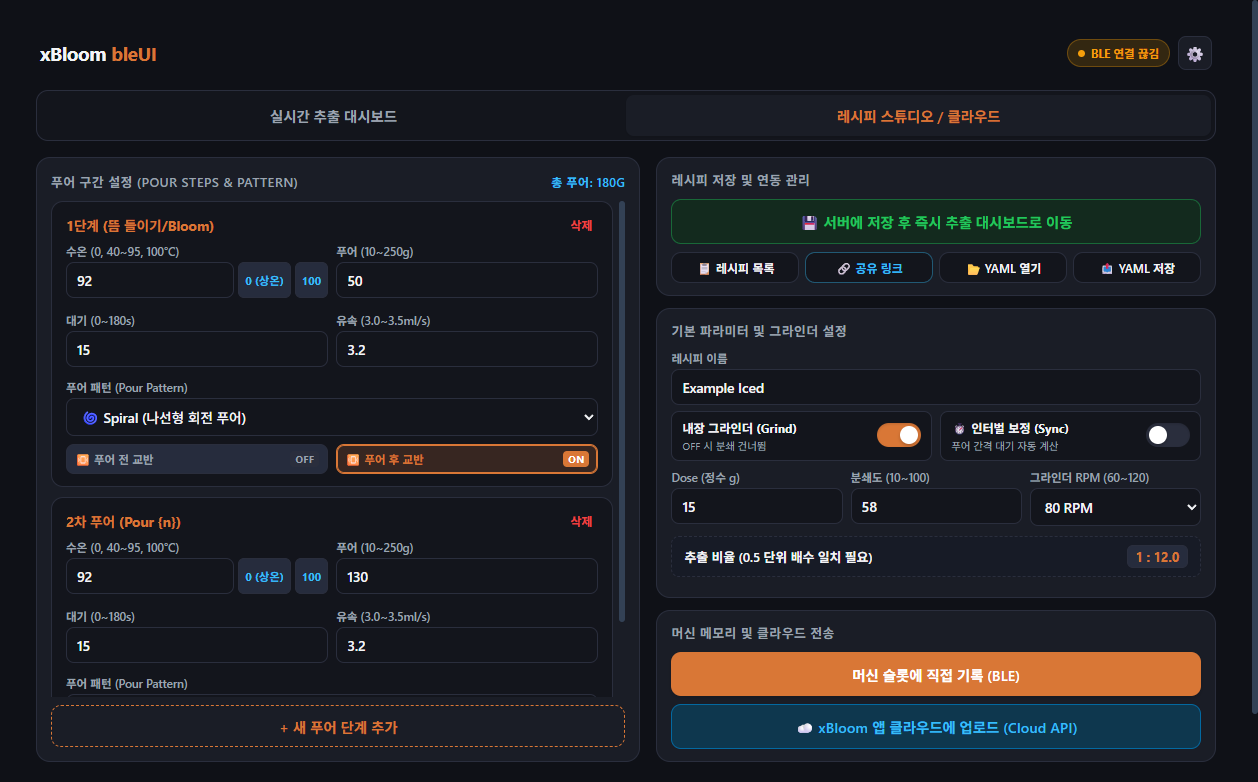
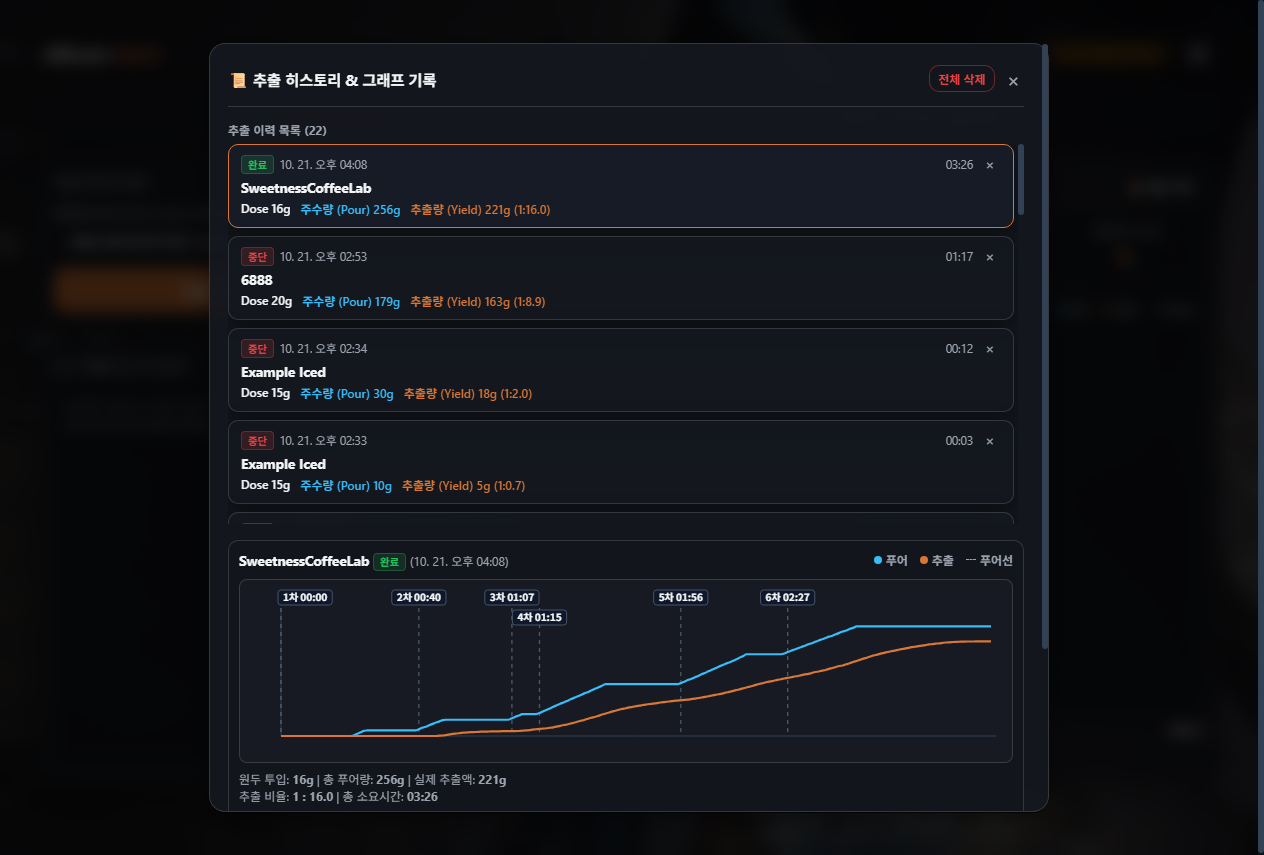
docs: update READMEs for v0.9.2 features and fix brew-history image

Changed region(s): [[0.031, 0.0307, 1.0, 1.0], [0.031, 0.0614, 0.124, 0.0921]]

diff --git a/README.md b/README.md
@@ -5,7 +5,7 @@
 </p>
 
 <p align="center">
-  <img src="https://img.shields.io/badge/Version-0.9.0-orange.svg" alt="Version 0.9.0">
+  <img src="https://img.shields.io/badge/Version-0.9.2-orange.svg" alt="Version 0.9.2">
   <img src="https://img.shields.io/badge/i18n-7_Languages-brightgreen.svg" alt="i18n Multilingual">
   <img src="https://img.shields.io/badge/Python-3.10%2B-blue.svg" alt="Python 3.10+">
   <img src="https://img.shields.io/badge/Hardware-xBloom%20Studio-38bdf8.svg" alt="Hardware xBloom Studio">
@@ -66,6 +66,8 @@
 | **기기 메모리 슬롯** | CLI 커맨드라인 슬롯 기록 | **A / B / C 물리 버튼 브라우저 원터치 원격 프로그래밍** |
 | **추출 데이터 보관** | 세션 실시간 모니터링 | **영구 로컬 히스토리 아카이빙, 듀얼 차트 복원, 원클릭 재추출(Re-brew)** |
 | **자동 업데이트** | 수동 git pull 또는 재설치 | **GitHub 릴리즈 연동 원클릭 자동 업데이트 (사용자 데이터 100% 무손실 보존)** |
+| **그라인더 마이크론 에스티메이터** | 단순 클릭 수 설정 | **48mm 코니컬 버 간극 기반 이론적 마이크론(µm) 실시간 환산 & 설정 토글** |
+| **온도 표기 규격** | 일반 숫자 표기 | **글로벌 스페셜티 표준 RT (상온 0°C) 및 BP (끓는점 100°C) 약어 규격화** |
 | **다국어 (i18n)** | 영문 기반 | **글로벌 판매국 7개 언어 지원 & 스페셜티 커피 바리스타 전문 용어 최적화** |
 
 ---
@@ -109,7 +111,8 @@
   <img src="docs/img/recipe-studio.png" alt="레시피 스튜디오 상세 편집 화면" width="800">
 </p>
 
-- **정밀 그라인더 제어**: 분쇄도(10~100) 및 모터 회전 속도(60~120 RPM, 10단위) 제어 지원.
+- **정밀 그라인더 제어 & 마이크론(µm) 실시간 에스티메이터**: 분쇄도(10~100) 및 모터 회전 속도(60~120 RPM) 제어 지원, 48mm 코니컬 버 규격 기반의 이론적 마이크론(`≈ 836 µm` 등) 실시간 환산 뱃지 제공 (환경 설정에서 ON/OFF 토글 가능).
+- **글로벌 스페셜티 표준 온도 단축 태그**: 상온수 추출을 위한 `0 (RT)` 및 비등점 끓는 물 `100 (BP)` 원터치 주입 태그 제공.
 - **다양한 푸어 패턴**: Center(중앙), Ring(원형), Spiral(나선형) 패턴 완벽 지원.
 - **스마트 교반(Agitation)**: 푸어 전 원두 평탄화 교반(`agitation_before`) 및 푸어 후 교반(`agitation_after`) 독립 설정.
 - **핸드드립 인터벌 동기화 뱃지**: 목표 대기시간 대비 주수 오버헤드를 뺀 실제 기기 대기시간을 카드에 실시간 힌트로 표시.

diff --git a/README.en.md b/README.en.md
@@ -5,7 +5,7 @@
 </p>
 
 <p align="center">
-  <img src="https://img.shields.io/badge/Version-0.9.0-orange.svg" alt="Version 0.9.0">
+  <img src="https://img.shields.io/badge/Version-0.9.2-orange.svg" alt="Version 0.9.2">
   <img src="https://img.shields.io/badge/i18n-7_Languages-brightgreen.svg" alt="i18n Multilingual">
   <img src="https://img.shields.io/badge/Python-3.10%2B-blue.svg" alt="Python 3.10+">
   <img src="https://img.shields.io/badge/Hardware-xBloom%20Studio-38bdf8.svg" alt="Hardware xBloom Studio">

diff --git a/README.ja.md b/README.ja.md
@@ -5,7 +5,7 @@
 </p>
 
 <p align="center">
-  <img src="https://img.shields.io/badge/Version-0.9.0-orange.svg" alt="Version 0.9.0">
+  <img src="https://img.shields.io/badge/Version-0.9.2-orange.svg" alt="Version 0.9.2">
   <img src="https://img.shields.io/badge/i18n-7_Languages-brightgreen.svg" alt="i18n Multilingual">
   <img src="https://img.shields.io/badge/Python-3.10%2B-blue.svg" alt="Python 3.10+">
   <img src="https://img.shields.io/badge/Hardware-xBloom%20Studio-38bdf8.svg" alt="Hardware xBloom Studio">

diff --git a/README.zh-TW.md b/README.zh-TW.md
@@ -5,7 +5,7 @@
 </p>
 
 <p align="center">
-  <img src="https://img.shields.io/badge/Version-0.9.0-orange.svg" alt="Version 0.9.0">
+  <img src="https://img.shields.io/badge/Version-0.9.2-orange.svg" alt="Version 0.9.2">
   <img src="https://img.shields.io/badge/i18n-7_Languages-brightgreen.svg" alt="i18n Multilingual">
   <img src="https://img.shields.io/badge/Python-3.10%2B-blue.svg" alt="Python 3.10+">
   <img src="https://img.shields.io/badge/Hardware-xBloom%20Studio-38bdf8.svg" alt="Hardware xBloom Studio">
